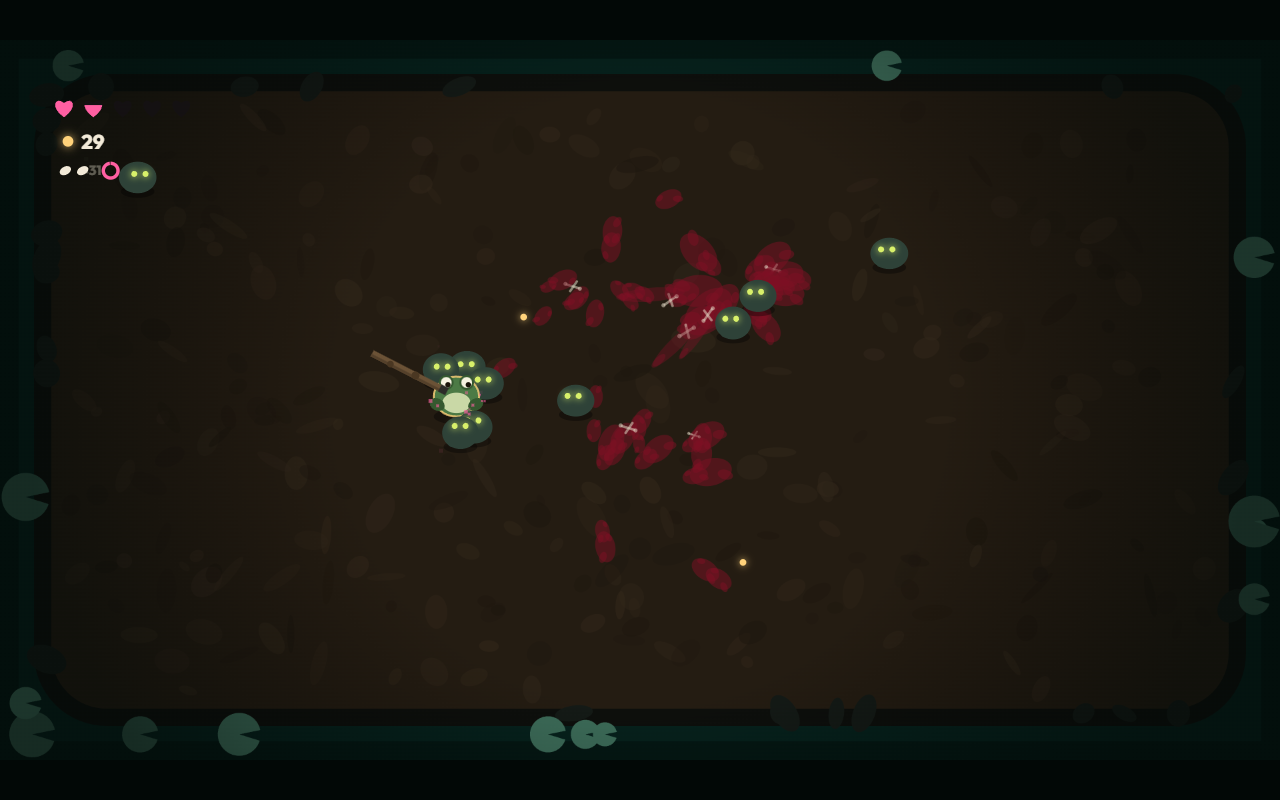
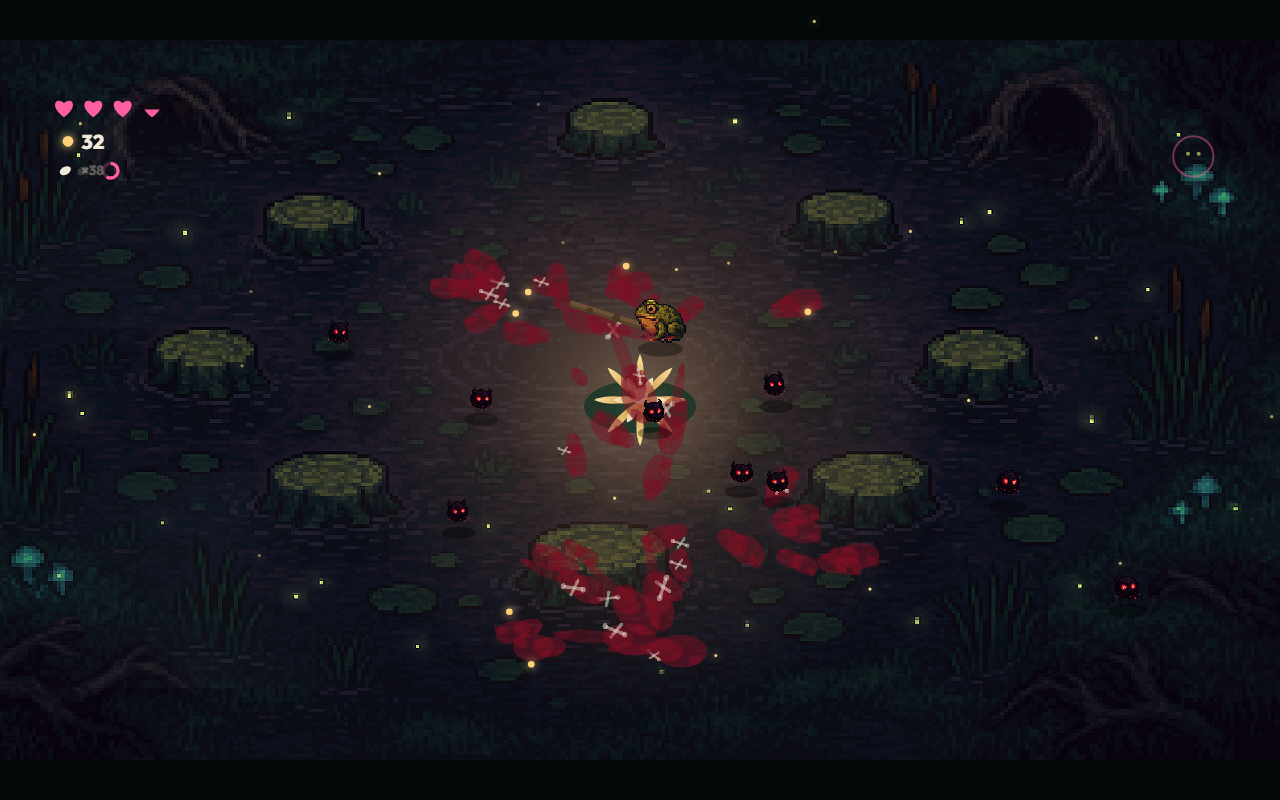
Wire real art + procedural animation into the slice
Real frog sprite (hop bounce + squash/stretch + lean + idle breathing),
sludgeling sprite (penguin-waddle), painted swamp backdrop, code-drawn
glowing lotus centerpiece + fireflies + drifting fog. assets.ts loader,
imageSmoothingEnabled=false for crisp pixels. QA driver headless (no more
screen hijack). Typecheck clean, headless QA no errors.

diff --git a/src/render/render.ts b/src/render/render.ts
@@ -9,6 +9,7 @@ import { ENEMIES } from '../data/enemies';
 import { TONGUE } from '../data/weapons';
 import type { Enemy, World } from '../sim/types';
 import { feel, particles, decals, decalStats, shakeOffset, type Decal } from '../feel/feel';
+import { img } from '../engine/assets';
 
 // palette (Art Direction law)
 const C = {
@@ -175,6 +176,101 @@ function updateDecalLayer() {
   }
 }
 
+// ---------- glowing golden lotus centerpiece (the swamp's light source) ----------
+function drawLotus(ctx: CanvasRenderingContext2D, time: number) {
+  const cx = ARENA_W / 2, cy = ARENA_H / 2;
+  const pulse = 0.85 + Math.sin(time * 1.4) * 0.15;
+  ctx.save();
+  // warm radial glow washing the arena center
+  const glow = ctx.createRadialGradient(cx, cy, 20, cx, cy, 560 * pulse);
+  glow.addColorStop(0, 'rgba(255,214,140,0.34)');
+  glow.addColorStop(0.4, 'rgba(255,180,90,0.12)');
+  glow.addColorStop(1, 'rgba(255,180,90,0)');
+  ctx.fillStyle = glow;
+  ctx.fillRect(cx - 600, cy - 600, 1200, 1200);
+  // pad
+  ctx.fillStyle = 'rgba(28,54,40,0.9)';
+  ctx.beginPath(); ctx.ellipse(cx, cy + 10, 84, 40, 0, 0, Math.PI * 2); ctx.fill();
+  // petals (two rings), lit from within
+  ctx.translate(cx, cy);
+  for (let ring = 0; ring < 2; ring++) {
+    const n = ring === 0 ? 8 : 6;
+    const r = ring === 0 ? 46 : 26;
+    const rot = ring === 0 ? 0 : Math.PI / 6;
+    for (let i = 0; i < n; i++) {
+      const a = rot + (i / n) * Math.PI * 2;
+      ctx.save();
+      ctx.rotate(a);
+      const g = ctx.createLinearGradient(0, 0, 0, -r * 1.6);
+      g.addColorStop(0, '#c8892e');
+      g.addColorStop(1, ring === 0 ? '#ffe9a8' : '#fff6d8');
+      ctx.fillStyle = g;
+      ctx.beginPath();
+      ctx.moveTo(0, 0);
+      ctx.quadraticCurveTo(-11, -r, 0, -r * 1.5);
+      ctx.quadraticCurveTo(11, -r, 0, 0);
+      ctx.fill();
+      ctx.restore();
+    }
+  }
+  // hot core
+  ctx.fillStyle = 'rgba(255,247,220,' + (0.7 * pulse) + ')';
+  ctx.shadowColor = '#ffd27a'; ctx.shadowBlur = 30 * pulse;
+  ctx.beginPath(); ctx.arc(0, -6, 12, 0, Math.PI * 2); ctx.fill();
+  ctx.restore();
+}
+
+// ---------- fireflies + fog (living swamp overlays) ----------
+const fireflies = Array.from({ length: 22 }, () => ({
+  x: Math.random() * ARENA_W, y: Math.random() * ARENA_H,
+  ph: Math.random() * Math.PI * 2, sp: 0.3 + Math.random() * 0.5,
+  rx: 40 + Math.random() * 120, ry: 30 + Math.random() * 90,
+}));
+function drawAtmosphere(ctx: CanvasRenderingContext2D, time: number) {
+  // fireflies drift in slow lissajous loops, twinkle warm
+  for (const f of fireflies) {
+    const x = f.x + Math.cos(time * f.sp + f.ph) * f.rx;
+    const y = f.y + Math.sin(time * f.sp * 1.3 + f.ph) * f.ry;
+    const tw = 0.35 + 0.65 * (0.5 + 0.5 * Math.sin(time * 3 + f.ph * 5));
+    ctx.globalAlpha = tw;
+    ctx.fillStyle = '#ffe58a';
+    ctx.shadowColor = '#ffd27a'; ctx.shadowBlur = 8;
+    ctx.beginPath(); ctx.arc(x, y, 2.4, 0, Math.PI * 2); ctx.fill();
+  }
+  ctx.shadowBlur = 0; ctx.globalAlpha = 1;
+  // slow drifting fog band (two layers) for depth
+  for (let i = 0; i < 2; i++) {
+    const off = (time * (6 + i * 4)) % (ARENA_W + 600) - 300;
+    const g = ctx.createLinearGradient(off, 0, off + 600, 0);
+    g.addColorStop(0, 'rgba(60,80,72,0)');
+    g.addColorStop(0.5, `rgba(70,92,82,${0.05 + i * 0.03})`);
+    g.addColorStop(1, 'rgba(60,80,72,0)');
+    ctx.fillStyle = g;
+    ctx.fillRect(0, i === 0 ? ARENA_H * 0.1 : ARENA_H * 0.6, ARENA_W, ARENA_H * 0.3);
+  }
+}
+
+// ---------- pixel-sprite helper (nearest, flip, squash, tint) ----------
+function drawSprite(ctx: CanvasRenderingContext2D, im: HTMLImageElement, x: number, y: number,
+                    h: number, flip: boolean, sx: number, sy: number, flash: number, rot = 0) {
+  const aspect = im.width / im.height;
+  const dh = h, dw = h * aspect;
+  ctx.save();
+  ctx.translate(x, y);
+  if (rot) ctx.rotate(rot);
+  ctx.scale((flip ? -1 : 1) * sx, sy);
+  ctx.imageSmoothingEnabled = false;
+  ctx.drawImage(im, -dw / 2, -dh, dw, dh); // anchor at feet (bottom-center)
+  if (flash > 0) {
+    ctx.globalAlpha = flash;
+    ctx.globalCompositeOperation = 'lighter';
+    ctx.drawImage(im, -dw / 2, -dh, dw, dh);
+    ctx.globalCompositeOperation = 'source-over';
+    ctx.globalAlpha = 1;
+  }
+  ctx.restore();
+}
+
 // ---------- dash afterimages (render-local trail) ----------
 const trail: { x: number; y: number; life: number }[] = [];
 
@@ -193,6 +289,7 @@ export function draw(ctx: CanvasRenderingContext2D, w: World, cw: number, ch: nu
   ctx.fillStyle = '#020806';
   ctx.fillRect(0, 0, cw, ch);
   ctx.save();
+  ctx.imageSmoothingEnabled = false; // crisp pixel art
   ctx.translate(ox, oy);
   ctx.scale(scale, scale);
 
@@ -204,7 +301,11 @@ export function draw(ctx: CanvasRenderingContext2D, w: World, cw: number, ch: nu
   ctx.scale(zoom, zoom);
   ctx.translate(-ARENA_W / 2 + sx, -ARENA_H / 2 + sy);
 
-  ctx.drawImage(backdrop, 0, 0);
+  // real painted swamp backdrop (falls back to graybox pond until the image loads)
+  const bd = img('backdrop');
+  if (bd) ctx.drawImage(bd, 0, 0, ARENA_W, ARENA_H);
+  else { if (!backdrop) backdrop = buildBackdrop(); ctx.drawImage(backdrop, 0, 0); }
+  drawLotus(ctx, time);
   if (decalCanvas) ctx.drawImage(decalCanvas, 0, 0);
 
   // spawn telegraphs: pulsing glyph + glowing eyes
@@ -274,6 +375,8 @@ export function draw(ctx: CanvasRenderingContext2D, w: World, cw: number, ch: nu
   }
   ctx.globalAlpha = 1;
 
+  drawAtmosphere(ctx, time);
+
   ctx.restore();
 
   drawHud(ctx, w, cw, ch, scale, ox, oy, time, paused);
@@ -292,52 +395,54 @@ function drawFrog(ctx: CanvasRenderingContext2D, w: World, fx: number, fy: numbe
     return;
   }
   const atk = f.attack;
-  const hop = Math.sin(f.hopPhase * Math.PI) * 6;
-  let squashX = 1, squashY = 1;
-  if (atk.phase === 'windup' || atk.phase === 'heavywindup') { squashX = 1.08; squashY = 0.9; }
-  if (atk.phase === 'heavyhold') { squashX = 1.12 + Math.sin(time * 18) * 0.015; squashY = 0.86; }
-  if (atk.phase === 'active') { squashX = 0.94; squashY = 1.08; }
-  if (f.dashT > 0) { squashX = 1.25; squashY = 0.75; }
+  const speed = Math.hypot(f.vx, f.vy);
+  const moving = speed > 20 && f.dashT <= 0;
+  // hop arc: 0 at ground contact -> 1 at apex -> 0, once per hop. Drives lift + squash/stretch.
+  const hopArc = moving ? Math.abs(Math.sin(f.hopPhase * Math.PI)) : 0;
+  const hop = hopArc * 17 + (moving ? 0 : Math.sin(time * 2.1) * 1.4); // idle micro-bob
+  // stretch tall at the apex, squash wide on landing
+  let squashX = 1 - hopArc * 0.11;
+  let squashY = 1 + hopArc * 0.15;
+  if (!moving && f.dashT <= 0) { const b = Math.sin(time * 2.2) * 0.03; squashX -= b; squashY += b; } // breathing
+  if (atk.phase === 'windup' || atk.phase === 'heavywindup') { squashX *= 1.08; squashY *= 0.9; }
+  if (atk.phase === 'heavyhold') { squashX *= 1.12 + Math.sin(time * 18) * 0.015; squashY *= 0.86; }
+  if (atk.phase === 'active') { squashX *= 0.92; squashY *= 1.1; }
+  if (f.dashT > 0) { squashX = 1.32; squashY = 0.7; }
+  // lean into the hop + into horizontal motion (secondary motion)
+  const lean = (moving ? Math.sin(f.hopPhase * Math.PI * 2) * 0.05 : 0)
+    + Math.max(-0.1, Math.min(0.1, f.vx / 3200));
 
   const flicker = f.iframesT > 0 && Math.floor(time * 24) % 2 === 0;
   ctx.save();
   ctx.translate(fx, fy - hop);
+  if (lean) ctx.rotate(lean);
   if (flicker) ctx.globalAlpha = 0.45;
 
   // sword BEHIND frog when aiming up
   const aimUp = Math.sin(atk.phase === 'none' ? f.aim : atk.angle) < -0.3;
   if (aimUp) drawSword(ctx, w, time);
 
-  ctx.scale(squashX, squashY);
-  // body
-  ctx.fillStyle = f.hurtFlashT > 0 ? '#e8d8d2' : C.frog;
-  ctx.beginPath(); ctx.ellipse(0, 0, FROG_RADIUS, FROG_RADIUS * 0.88, 0, 0, Math.PI * 2); ctx.fill();
-  // amber team rim (P1)
-  ctx.strokeStyle = 'rgba(255,210,122,0.8)';
-  ctx.lineWidth = 3;
-  ctx.beginPath(); ctx.ellipse(0, 0, FROG_RADIUS, FROG_RADIUS * 0.88, 0, 0, Math.PI * 2); ctx.stroke();
-  // belly
-  ctx.fillStyle = f.hurtFlashT > 0 ? '#fff' : C.frogBelly;
-  ctx.beginPath(); ctx.ellipse(0, FROG_RADIUS * 0.28, FROG_RADIUS * 0.62, FROG_RADIUS * 0.45, 0, 0, Math.PI * 2); ctx.fill();
-  // legs (simple haunches)
-  ctx.fillStyle = C.frogDark;
-  ctx.beginPath(); ctx.ellipse(-FROG_RADIUS * 0.85, FROG_RADIUS * 0.35, 12, 9, 0.5, 0, Math.PI * 2); ctx.fill();
-  ctx.beginPath(); ctx.ellipse(FROG_RADIUS * 0.85, FROG_RADIUS * 0.35, 12, 9, -0.5, 0, Math.PI * 2); ctx.fill();
-  // eyes track aim; blink on a seeded cycle
-  const blink = Math.sin(time * 0.7) > 0.995;
-  const eyeDx = Math.cos(f.aim) * 5, eyeDy = Math.sin(f.aim) * 4;
-  for (const side of [-1, 1]) {
-    ctx.fillStyle = C.frogDark;
-    ctx.beginPath(); ctx.arc(side * FROG_RADIUS * 0.45, -FROG_RADIUS * 0.62, 11, 0, Math.PI * 2); ctx.fill();
-    ctx.fillStyle = '#f5f2e0';
-    ctx.beginPath(); ctx.arc(side * FROG_RADIUS * 0.45, -FROG_RADIUS * 0.62, 8, 0, Math.PI * 2); ctx.fill();
-    if (!blink) {
-      ctx.fillStyle = '#1a140a';
-      ctx.beginPath(); ctx.arc(side * FROG_RADIUS * 0.45 + eyeDx, -FROG_RADIUS * 0.62 + eyeDy, 4, 0, Math.PI * 2); ctx.fill();
-    } else {
-      ctx.strokeStyle = '#1a140a'; ctx.lineWidth = 2;
-      ctx.beginPath(); ctx.moveTo(side * FROG_RADIUS * 0.45 - 6, -FROG_RADIUS * 0.62); ctx.lineTo(side * FROG_RADIUS * 0.45 + 6, -FROG_RADIUS * 0.62); ctx.stroke();
+  const facingLeft = Math.cos(atk.phase === 'none' ? f.aim : atk.angle) < 0;
+  ctx.scale((facingLeft ? -1 : 1) * squashX, squashY);
+  const frogImg = img('frog');
+  if (frogImg) {
+    const h = FROG_RADIUS * 3.0;
+    const dw = h * (frogImg.width / frogImg.height);
+    ctx.imageSmoothingEnabled = false;
+    ctx.drawImage(frogImg, -dw / 2, -h * 0.66, dw, h); // anchored near feet
+    if (f.hurtFlashT > 0) {
+      ctx.globalAlpha = Math.min(0.75, f.hurtFlashT * 5);
+      ctx.globalCompositeOperation = 'lighter';
+      ctx.drawImage(frogImg, -dw / 2, -h * 0.66, dw, h);
+      ctx.globalCompositeOperation = 'source-over';
+      ctx.globalAlpha = 1;
     }
+  } else {
+    // graybox fallback until the sprite loads
+    ctx.fillStyle = f.hurtFlashT > 0 ? '#e8d8d2' : C.frog;
+    ctx.beginPath(); ctx.ellipse(0, 0, FROG_RADIUS, FROG_RADIUS * 0.88, 0, 0, Math.PI * 2); ctx.fill();
+    ctx.fillStyle = f.hurtFlashT > 0 ? '#fff' : C.frogBelly;
+    ctx.beginPath(); ctx.ellipse(0, FROG_RADIUS * 0.28, FROG_RADIUS * 0.62, FROG_RADIUS * 0.45, 0, 0, Math.PI * 2); ctx.fill();
   }
   ctx.restore();
 
@@ -480,6 +585,42 @@ function drawEnemy(ctx: CanvasRenderingContext2D, e: Enemy, alpha: number, time:
     sx2 = 1.1; sy2 = 0.9;
   }
   ctx.scale(sx2, sy2);
+
+  // real sludgeling sprite (all sludge-family kinds share it for the slice), then bail to the
+  // world-space windup telegraph. Graybox blob below is the fallback until the image loads.
+  const sImg = img('sludgeling');
+  if (sImg) {
+    // penguin-waddle: rock side-to-side + little hops while closing on the player (Ian's vision)
+    const moving = e.state === 'seek' && Math.hypot(e.vx, e.vy) > 10;
+    const wadT = time * 9 + e.seed * 20;
+    if (moving) {
+      const wadHop = Math.abs(Math.sin(wadT)) * r * 0.18;
+      ctx.rotate(Math.sin(wadT) * 0.14);           // rock
+      ctx.translate(0, -wadHop);                    // hop
+      ctx.scale(1 + Math.cos(wadT * 2) * 0.05, 1 - Math.cos(wadT * 2) * 0.05); // squish per step
+    }
+    const h = r * 2.7;
+    const dw = h * (sImg.width / sImg.height);
+    ctx.imageSmoothingEnabled = false;
+    ctx.drawImage(sImg, -dw / 2, -h * 0.6, dw, h);
+    if (e.flashT > 0) {
+      ctx.globalAlpha = 0.85; ctx.globalCompositeOperation = 'lighter';
+      ctx.drawImage(sImg, -dw / 2, -h * 0.6, dw, h);
+      ctx.globalCompositeOperation = 'source-over'; ctx.globalAlpha = 1;
+    }
+    ctx.restore();
+    if (e.state === 'windup') {
+      const p = e.stateF / data.atkWindup;
+      ctx.save();
+      ctx.strokeStyle = `rgba(255,95,162,${0.2 + p * 0.55})`;
+      ctx.lineWidth = 3;
+      ctx.beginPath();
+      ctx.arc(e.atkX, e.atkY, data.atkRadius * (0.5 + p * 0.5), 0, Math.PI * 2);
+      ctx.stroke();
+      ctx.restore();
+    }
+    return;
+  }
 
   // body color: white flash > armor flash > windup warm > base
   const warm = e.state === 'windup' && (e.stateF & 4) !== 0;

diff --git a/src/engine/assets.ts b/src/engine/assets.ts
@@ -1,0 +1,31 @@
+// Image asset loader. Preloads sprites/backdrop; render reads them by key.
+// Pixel art: callers draw with imageSmoothingEnabled=false.
+
+const KEYS = {
+  frog: '/art/batch01/frog_idle_a.png',
+  sludgeling: '/art/batch01/sludgeling.png',
+  backdrop: '/art/arena_backdrop.png',
+} as const;
+
+export type AssetKey = keyof typeof KEYS;
+
+const images: Partial<Record<AssetKey, HTMLImageElement>> = {};
+let loaded = 0;
+const total = Object.keys(KEYS).length;
+
+export function loadAssets(): void {
+  for (const [key, url] of Object.entries(KEYS) as [AssetKey, string][]) {
+    const im = new Image();
+    im.onload = () => { images[key] = im; loaded++; };
+    im.onerror = () => { loaded++; }; // missing asset: renderer falls back to graybox
+    im.src = url;
+  }
+}
+
+export function img(key: AssetKey): HTMLImageElement | null {
+  return images[key] ?? null;
+}
+
+export function assetsReady(): boolean {
+  return loaded >= total;
+}

diff --git a/src/main.ts b/src/main.ts
@@ -9,7 +9,10 @@ import { draw, toWorld } from './render/render';
 import { drawPerf, perfEnabled, recordRender, recordSim } from './render/perf';
 import { consumeEvents, decayFeel, feel, updateParticles } from './feel/feel';
 import { initAudio, resumeAudio, updateAudio, playBgm, setSfxVolume } from './engine/audio';
+import { loadAssets } from './engine/assets';
 import { DT } from './data/constants';
+
+loadAssets();
 
 const canvas = document.getElementById('game') as HTMLCanvasElement;
 const ctx = canvas.getContext('2d')!;
